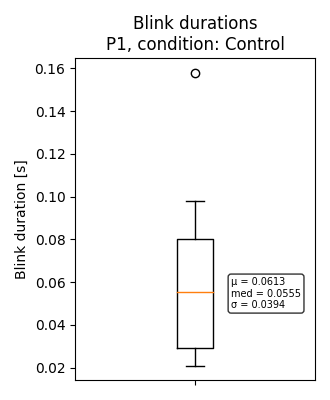
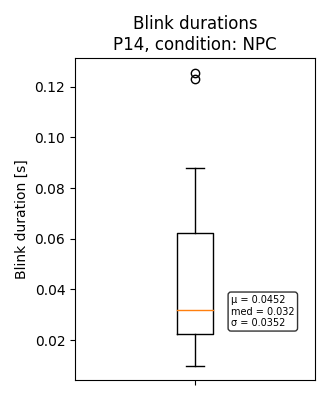
gitignore processed images and minor graph changes data_process.py

diff --git a/IER_code_JPS/data_process.py b/IER_code_JPS/data_process.py
@@ -18,7 +18,7 @@ import os
 class BlinkRate:
     def __init__(self, participant, th_closed):
         self.participant = participant
-        self.condition_names = ['Control','Noise','NPC','4_Combined','Second_Task']
+        self.condition_names = ['Control','Noise','NPC', 'Second_Task','4_Combined']
         self.bigfigsize = (10,4)
         self.smallfigsize = (3.3,4)
         self.th_closed = th_closed
@@ -267,8 +267,8 @@ class AllTestsBlinkRate(BlinkRate):
         
         # Plot parameters
         colors = ['tab:blue', 'tab:orange', 'tab:green', 'tab:red', 'tab:purple']
-        names_small = ['Ctrl','Noise','NPC','Comb','2nd']
-        names = ['Control','Noise','NPC','Combined','Second Task']
+        names_small = ['Ctrl','Noise','NPC','2nd', 'Comb']
+        names = ['Control','Noise','NPC','Second Task', 'Combined']
 
         # Plot avg blink interval per participant
         plt.figure(figsize=self.smallfigsize)
@@ -337,7 +337,7 @@ class AllTestsBlinkRate(BlinkRate):
 #______________________EXECUTE_HERE_______________________________#
 if __name__ == '__main__':
         print('Executing here')
-        assessment_1 = SingleBlinkRate(14,'Second_Task', 0.5)
+        assessment_1 = SingleBlinkRate(14,'NPC', 0.5)
         assessment_1.process_all(show=True)
         ass2 = AllTestsBlinkRate(14, 0.5)
         ass2.process_all(show=True)
